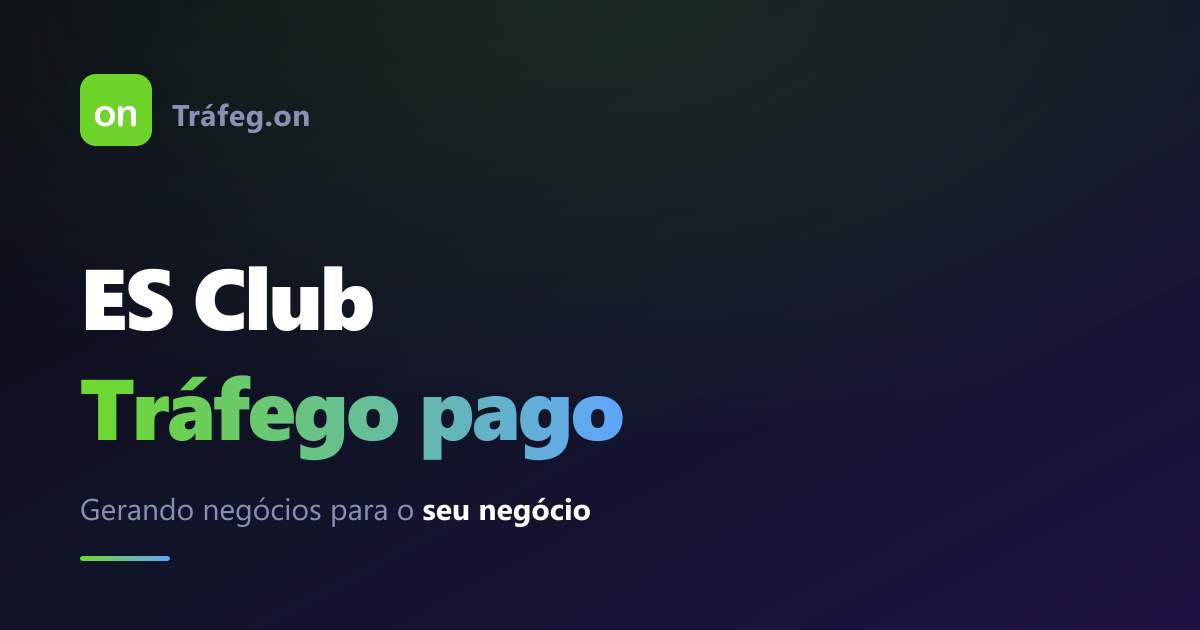
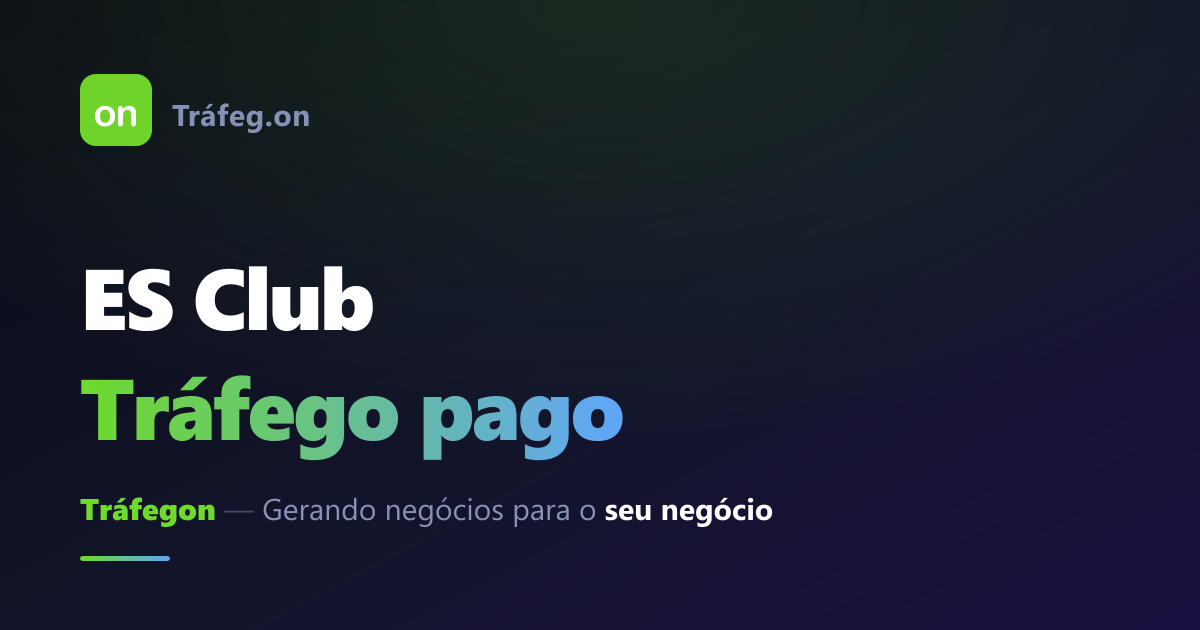
ES Club: slogan vai para o rodape da capa
"Trafegon - Gerando negocios para o seu negocio" fixado no rodape, em vez
de logo abaixo do titulo. Card de preview do link acompanha.

Changed region(s): [[0.0617, 0.7841, 0.6475, 0.8444]]

diff --git a/src/pages/erp/EsClub.jsx b/src/pages/erp/EsClub.jsx
@@ -530,7 +530,7 @@ const CHECK_COMERCIAL = [
 
 function SlideCapa() {
   return (
-    <div className="h-full flex flex-col items-center justify-center text-center px-6">
+    <div className="h-full relative flex items-center justify-center text-center px-6">
       <motion.h1 initial={{ opacity: 0, y: 16 }} animate={{ opacity: 1, y: 0 }}
         className="text-4xl lg:text-7xl font-black leading-[0.95] tracking-tighter">
         <span className="text-white">ES Club</span>
@@ -539,9 +539,12 @@ function SlideCapa() {
           Tráfego pago
         </span>
       </motion.h1>
-      <motion.p initial={{ opacity: 0 }} animate={{ opacity: 1 }} transition={{ delay: 0.35 }}
-        className="text-base lg:text-xl mt-6" style={{ color: '#8890b5' }}>
-        Gerando negócios para o <strong className="text-white font-black">seu negócio</strong>
+
+      <motion.p initial={{ opacity: 0 }} animate={{ opacity: 1 }} transition={{ delay: 0.45 }}
+        className="absolute inset-x-0 bottom-8 text-sm lg:text-base" style={{ color: '#5a6087' }}>
+        <strong className="font-black" style={{ color: GREEN }}>Tráfegon</strong>
+        <span style={{ color: '#3f4463' }}> — </span>
+        Gerando negócios para o <strong className="text-white font-bold">seu negócio</strong>
       </motion.p>
     </div>
   )
